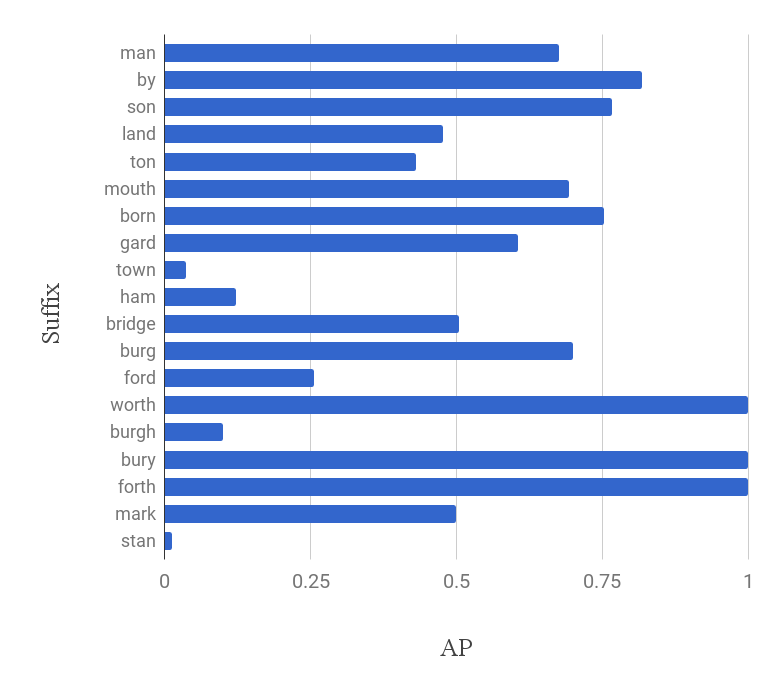
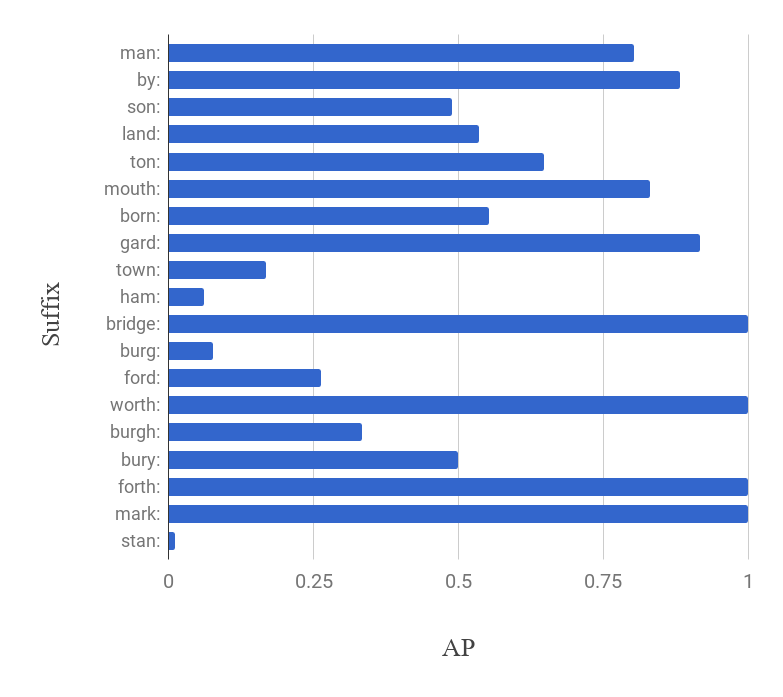
New data being entered.

diff --git a/byumsphd-example.tex b/byumsphd-example.tex
@@ -727,7 +727,7 @@ Full word spotting is performed as described in \cite{sudholt2016}, where the ne
   \hline		
   %Old network & 0.755 & 0.683 & 0.762 & 0.811 & 0.525 & 0.511  %results with msfNoLRN/sig-bray IAM:208000  BEN:160000 NAMES(less):144000
   Our network  &  0.892 & 0.833  &  0.926 & 0.971  &  0.758 & 0.858  \\%results with phocnetSkinny(Adam,dot) IAM:124000  BEN:X NAMES(less):124000
-  Our network adapted PHOC  &  0.X & 0.X  &  0.888 & 0.912  &  0.731 & 0.773 \\
+  Our network adapted PHOC  &  0.868 & 0.809  &  0.935 & 0.975  &  0.755 & 0.864 \\
   %bentham:ben_fixed_corpus.gtp
   
   PHOCNet\cite{sudholt2016} & 0.830 & 0.725 & - & - & - & - \\
@@ -741,7 +741,8 @@ Full word spotting is performed as described in \cite{sudholt2016}, where the ne
 
 %We first note that our model significantly under performs \cite{sudholt2016} on the IAM dataset (by 7.5\% on QbS and 4.2\% on QbE). We were unable to reproduce their results, mimicking their model, and the architecture changes we make we expected would have a negative effect on performance. It is likely a better word spotting model could be produced, but this was not the the focus of our work.
 %It is clear that the Census Names dataset is significantly more challenging than the other datasets, however, having above 50\% MAP indicates the network is learning the task to some degree.
-It can be seen that we underperform compared to \cite{sudholt2017}. This is to be expected as we have reduced the number of parameters in the  	CNN model. The adapted PHOC vector performs even worse which is also anticipated as we are reducing its descriptive power for words longer than three characters.
+It can be seen that we underperform compared to \cite{sudholt2017}. This is to be expected as we have reduced the number of parameters in the  	CNN model. The adapted PHOC vector performs variably against compared to the original,  performing better in some cases which is suprising as we have reduced its descriptive power for words longer than three characters. It may be the reduced description was easier for our reduced network to learn.
+%The adapted PHOC vector performs even worse which is also anticipated as we are reducing its descriptive power for words longer than three characters.
 
 As a note, it is not always meaningful to compare QbS scores to QbE scores, as QbS represents a mean over text queries, one for each possible word label and QbE represents a mean over instance queries, one for each instance of a word in the dataset, meaning it is biased towards the performance of common words (or n-grams in later tests).
 
@@ -780,7 +781,7 @@ Some qualitative results are show in Figures \ref{fig:qualSpot} and \ref{fig:qua
   Trigram &  0.522 &  0.571  & 0.271 &  0.285 \\
   \hline
   
-  Adapted PHOC using masked cross entropy & & & & \\
+  Adapted PHOC using cross entropy & & & & \\
   %net-adapted + masked cross ent   old ww
   Unigram &  0.677 &  0.327  & 0.497 &  0.203 \\ 
   Bigram  &  0.682 &  0.426  & 0.402 &  0.179 \\
@@ -795,25 +796,32 @@ Some qualitative results are show in Figures \ref{fig:qualSpot} and \ref{fig:qua
 \centering
 \begin{tabular}{| l | c c c | c c c c |}
   \hline
-   & \multicolumn{3}{c|}{\cite{sudholt2017} PHOC} & \multicolumn{4}{c|}{Adapted PHOC}\\
+   & \multicolumn{3}{c|}{PHOC \cite{sudholt2017}} & \multicolumn{4}{c|}{Adapted PHOC}\\
    %&     & weighted & n-gram & instance &     & weighted & n-gram & instance \\
    & Cosine & CE & Masked CE & Cosine & CE & Masked cosine & Masked CE   \\
   \hline   
   \hline 
   QbS & & & & & & & \\
   \hline
-Unigram &  0.654 &  0.608 &  0.654 &  0.678 &  0.691 &  0.499 &  0.691 \\
-Bigram  &  0.549 &  0.641 &  0.679 &  0.643 &  0.665 &  0.571 &  0.665 \\
-Trigram &  0.522 &  0.560 &  0.612 &  0.618 &  0.640 &  0.586 &  0.659 \\
+%                                                                         redo CE, final final2(uni, no mask)
+%Unigram &  0.654 &  0.608 &  0.654 &  0.678 &  0.691 &  0.499 &  0.691 \\,0.677  0.570, 0.677,
+%Bigram  &  0.549 &  0.641 &  0.679 &  0.643 &  0.665 &  0.571 &  0.665 \\,0.682  0.663, 0.663,
+%Trigram &  0.522 &  0.560 &  0.612 &  0.618 &  0.640 &  0.586 &  0.659 \\,0.705  0.697, 0.697,
+Unigram &  0.654 &  0.608 &  0.654 &  \textbf{0.678} &  \textbf{0.677} &  0.499 &  0.570 \\
+Bigram  &  0.549 &  0.641 &  0.679 &  0.643 &  \textbf{0.682} &  0.571 &  0.663 \\
+Trigram &  0.522 &  0.560 &  0.612 &  0.618 &  \textbf{0.705} &  0.586 &  0.697 \\
 \hline
 
 
 \hline 
   QbE & & & & & & & \\
   \hline
-Unigram &  0.511 &  0.338 &  0.X &  0.453 &  0.318  &  0.296 &  0.318 \\
-Bigram  &  0.569 &  0.429 &  0.X &  0.535 &  0.408  &  0.435 &  0.408 \\
-Trigram &  0.571 &  0.449 &  0.X &  0.533 &  0.431  &  0.497 &  0.438 \\
+%Unigram &  0.511 &  0.338 &  0.X &  0.453 &  0.318  &  0.296 &  0.318 \\0.329, 0.283, 0.328
+%Bigram  &  0.569 &  0.429 &  0.X &  0.535 &  0.408  &  0.435 &  0.408 \\0.426, 0.395, 0.395
+%Trigram &  0.571 &  0.449 &  0.X &  0.533 &  0.431  &  0.497 &  0.438 \\0.441, 0.437, 0.437
+Unigram &  \textbf{0.511} &  0.338 & 0.321 &  0.453 &  0.329  &  0.296 &  0.283 \\
+Bigram  &  \textbf{0.569} &  0.429 & 0.425 &  0.535 &  0.426  &  0.435 &  0.395 \\
+Trigram &  \textbf{0.571} &  0.449 & 0.431 &  0.533 &  0.441  &  0.497 &  0.437 \\
 \hline
 
 \end{tabular}
@@ -832,12 +840,12 @@ Trigram &  0.571 &  0.449 &  0.X &  0.533 &  0.431  &  0.497 &  0.438 \\
 \begin{figure}
     \centering
     \includegraphics[width=.6\textwidth]{qualSpotNames}
-    \caption{Qualitative results for QbS subword spotting on the Census Names Dataset. Spottings show the top results for the various n-gram queries. We selected some of the better n-grams (`i', `el', `int') and worse n-grams (`v', `ts', `pre') by MAP. Red boxes indicate incorrect spottings. %TODO comment on ss-s phenom?
+    \caption{Qualitative results for QbS subword spotting on the Census Names Dataset. Spottings show the top results for the various n-gram queries. We selected some of the better n-grams (`i', `el', `int') and worse n-grams (`v', `ts', `pre') by MAP. Red boxes indicate incorrect spottings.
     }
     \label{fig:qualSpotNames}
 \end{figure}
 
-In Table \ref{tab:distmetrics} we show a comparison of using cosine similarity and cross-entropy (CE) for PHOC vector comparison using both the original and adapted PHOC vectors. We also show the effect of masking the PHOC vector. For QbS, using cross-entropy shows a large improvement over cosine similarity, but cosine similarity always out performs in QbE.
+In Table \ref{tab:distmetrics} we show a comparison of using cosine similarity and cross-entropy (CE) for PHOC vector comparison using both the original and adapted PHOC vectors. We also show the effect of masking the PHOC vector, where divisions of the word which do not divide evenly with the number of characters being spotted are masked out (e.g.!~division of thirds is masked for spotting bigrams). For QbS, using cross-entropy shows a large improvement over cosine similarity, but cosine similarity always out performs in QbE.
 
 We note that for QbS that the relative performance of unigrams, bigrams, and trigrams is reversed for the Census Names dataset. This occurs becuase of a common error where windows containing only part of the desired n-gram (e.g.~a single character of a bigram) are scored highly. For example...
 This exists in the Bentham dataset as well.
@@ -1058,7 +1066,7 @@ We identified a list of 41 suffixes and evaluate spotting the suffixes present f
  The window size for a given suffix query is found by identifying all n-grams we have window estimates for (see Section \ref{detirminewindowsize}) which compose the query and averaging their window widths according to which characters they contribute to.
 We are able to make the assumption that the spottings only occur at the end of the word which reduces the number of possible subwindows significantly. We additionally don't need to consider window overlap in our evaluation as the goal is whole word retrieval.
 
-We evaluate QbS suffix spotting on the IAM and Census Names datasets as these have a reasonable number of instances of our suffixes. We achieved a MAP of 0.550 for the IAM dataset and a MAP of 0.297 for the Census Names dataset. We show the AP for the suffixes individually in Figures \ref{fig:IAM_suffix} and \ref{fig:names_suffix}.
+We evaluate QbS suffix spotting on the IAM and Census Names datasets as these have a reasonable number of instances of our suffixes. We achieved a MAP of 0.583 for the IAM dataset and a MAP of 0.488 for the Census Names dataset. We show the AP for the suffixes individually in Figures \ref{fig:IAM_suffix} and \ref{fig:names_suffix}. Note that the suffixes achieving 100\% AP occur only once or twice. For the IAM dataset the suffixes occur about half the time as the whole words, meaning it may not represent subword spotting as well as the Census Names dataset, which had only one instance of a subword being a whole word (name).
 
 
 
@@ -1092,7 +1100,7 @@ We evaluate QbS suffix spotting on the IAM and Census Names datasets as these ha
     \label{fig:names_suffix}
 \end{figure}
 
-The MAP for the Census Names dataset reflects its subword spotting performance. We can see in Figures \ref{fig:IAM_suffix} and \ref{fig:names_suffix} that more frequent suffixes perform more consistently, while less frequent suffixes have more variability in performance.
+%The MAP for the Census Names dataset reflects its subword spotting performance. We can see in Figures \ref{fig:IAM_suffix} and \ref{fig:names_suffix} that more frequent suffixes perform more consistently, while less frequent suffixes have more variability in performance.
 
 
 
